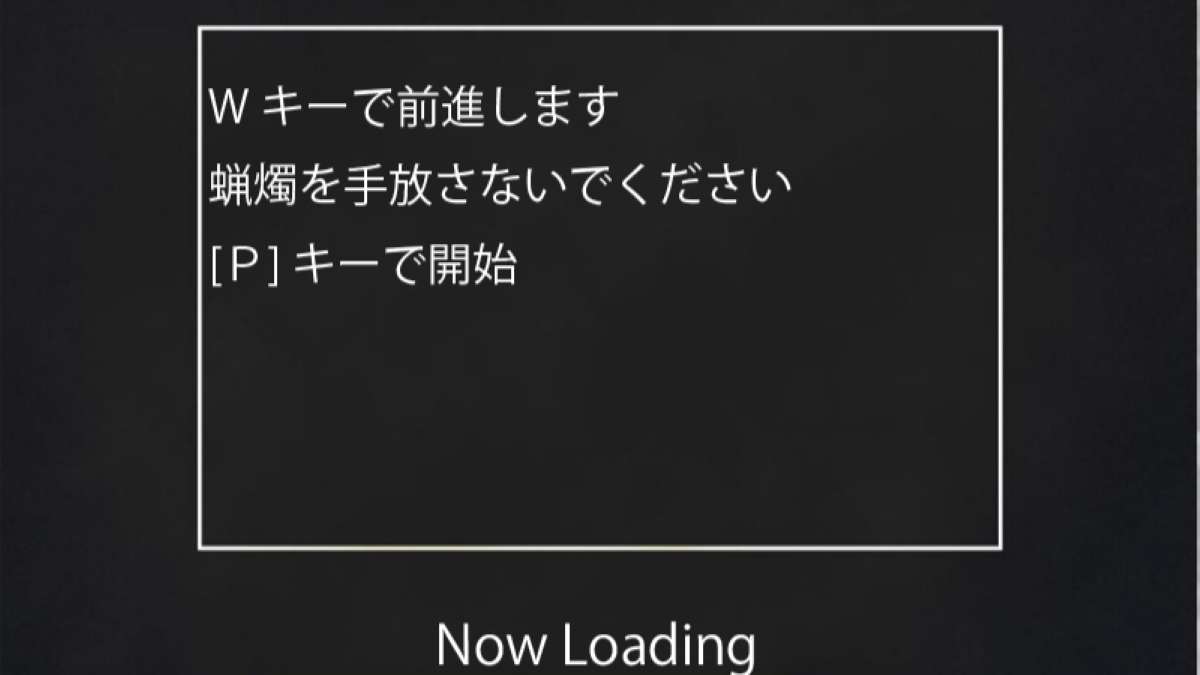
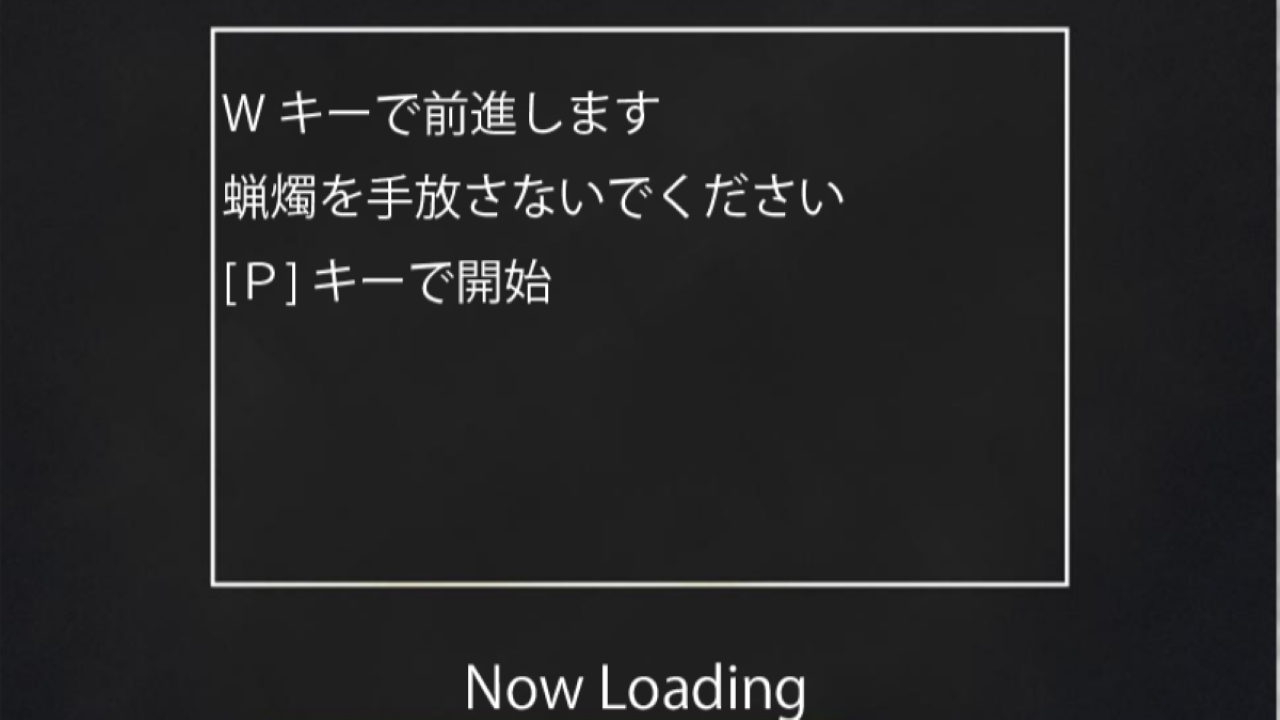
サイズ変更

diff --git a/main.cpp b/main.cpp
@@ -1,9 +1,10 @@
-#include "DxLib.h"
+/*https://github.com/Terrarian125/Team_Production*/
+#include "DxLib.h"
 #include "LogoScene.h"
 
 int WINAPI WinMain(HINSTANCE, HINSTANCE, LPSTR, int) {
     ChangeWindowMode(TRUE);
-    SetGraphMode(1200, 675, 32);
+    SetGraphMode(1280, 720, 32);
     if (DxLib_Init() == -1) return -1;
     SetDrawScreen(DX_SCREEN_BACK);
 
